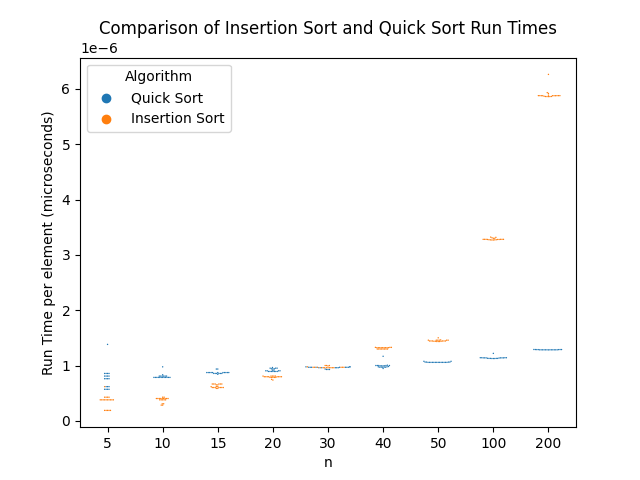
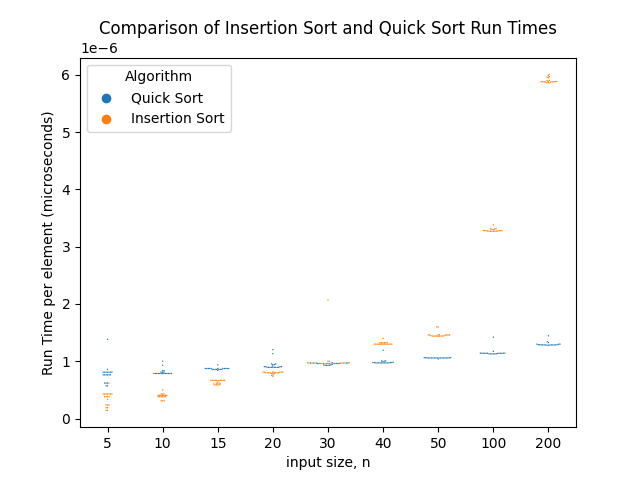
Update graph labels

diff --git a/Hybrid Sorting/main.py b/Hybrid Sorting/main.py
@@ -117,6 +117,9 @@ if __name__ == '__main__':
     df = df.melt(id_vars=['index'], value_vars=[10,15,20,30,40,50,100,200])
     df.columns = ['k', 'n', 'time/element']
     sns.lineplot(data=df, x='n', y='time/element', hue='k')
+    plt.title('Comparison of run time performance of hybrid sort based on k values')
+    plt.xlabel('input size, n')
+    plt.ylabel('Run Time per element (microseconds)')
     plt.savefig('hybrid_sort.png')
     plt.show()
 

diff --git a/Insertion Sort vs Quick Sort/main.py b/Insertion Sort vs Quick Sort/main.py
@@ -116,7 +116,7 @@ if __name__ == '__main__':
     # Create a seaborn swarmplot
     sns.swarmplot(x='n', y='Time per element', hue='Algorithm', data=df,size=1)
     plt.legend(title='Algorithm', loc='upper left')
-    plt.xlabel('n')
+    plt.xlabel('input size, n')
     plt.ylabel('Run Time per element (microseconds)')
     plt.title('Comparison of Insertion Sort and Quick Sort Run Times')
     plt.savefig('insertion_vs_quick.png')
